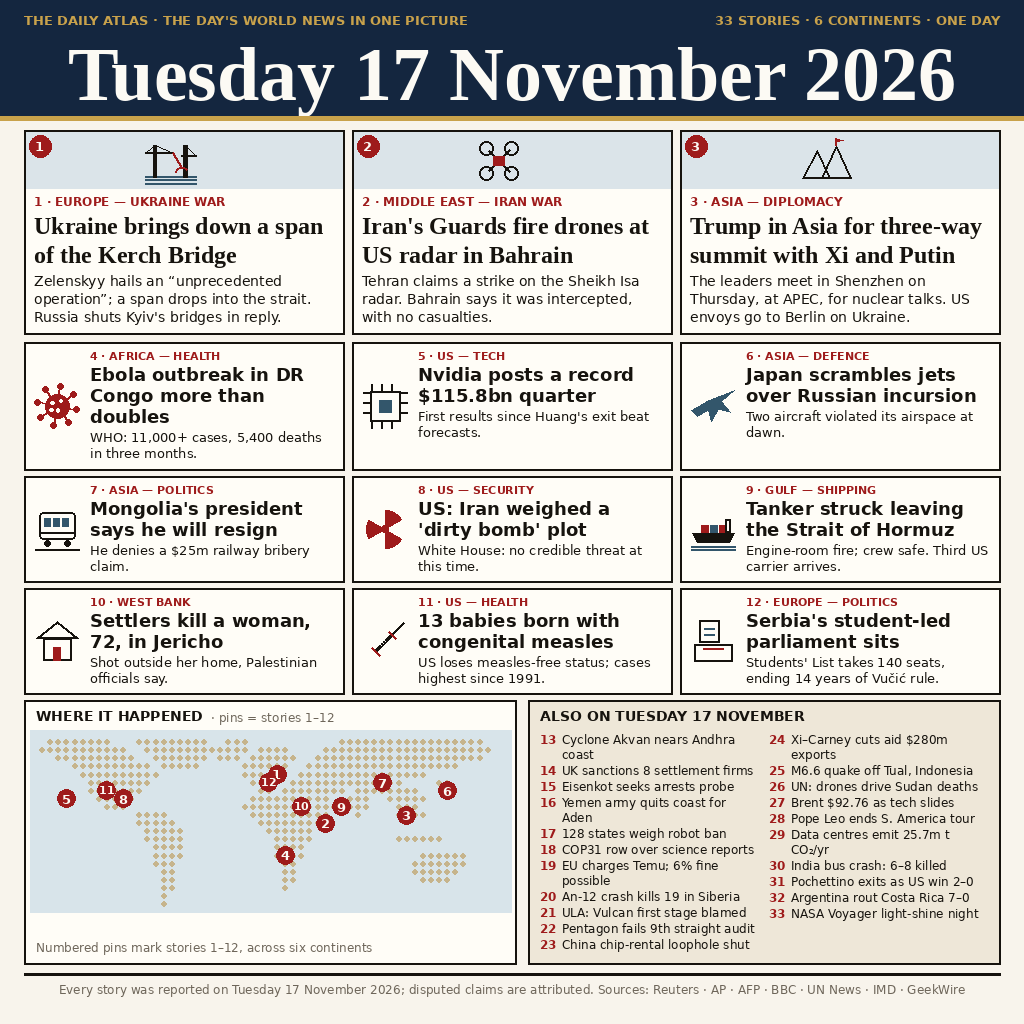
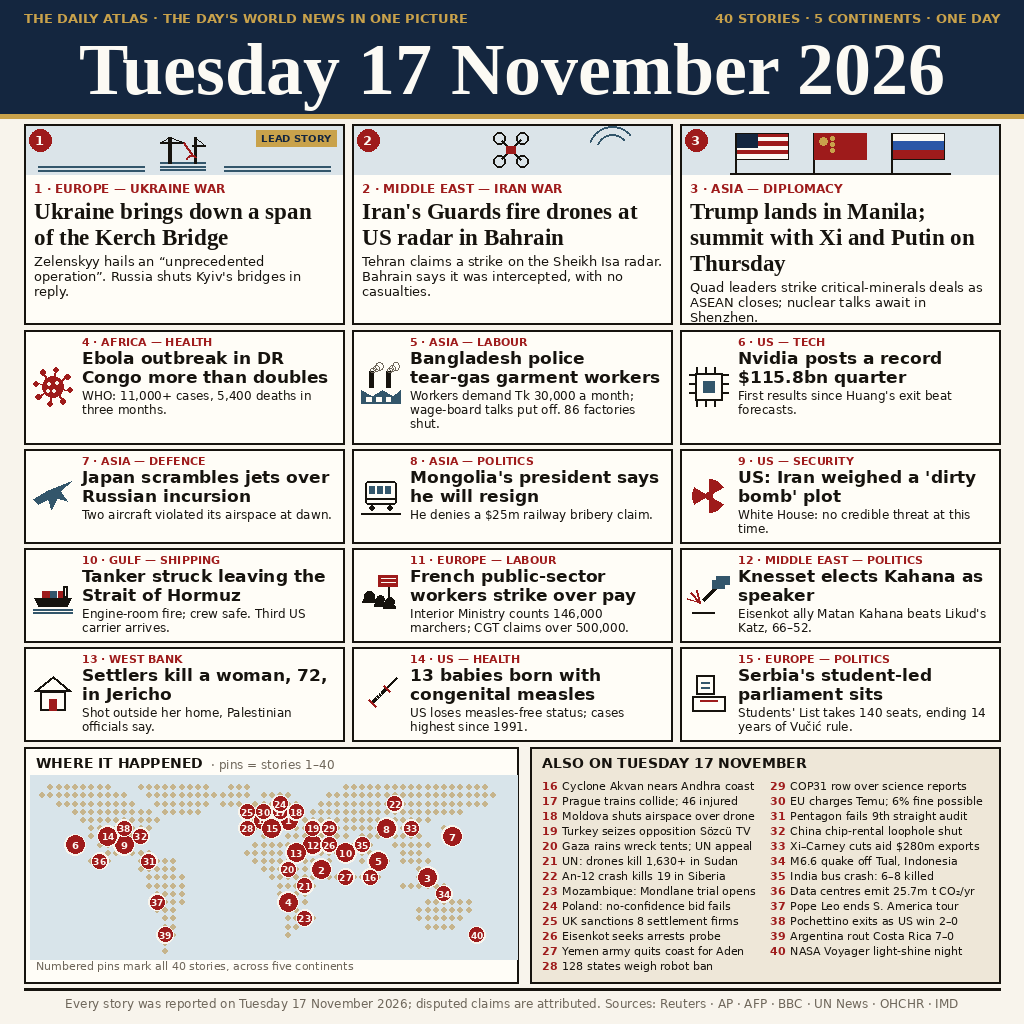
V2: 40 stories, 15 cards, pins for every story

diff --git a/main.py b/main.py
@@ -1,5 +1,5 @@
 #!/usr/bin/env python3
-"""news-image-20261117 entry program.
+"""news-image-20261117 entry program (V2).
 
 Copies the bundled front-page image (entry.png, next to this file) to
 $MAKEFUN_OUTPUT_DIR/entry.png, defaulting to /output/entry.png.

diff --git a/README.md b/README.md
@@ -1,13 +1,13 @@
-# The Daily Atlas — Tuesday 17 November 2026
+# The Daily Atlas — Tuesday 17 November 2026 (V2)
 
 [![make.fun · news-image-20261117](https://make.fun/badge/news-image-20261117.svg)](https://make.fun/bounty/news-image-20261117?utm_source=github&utm_medium=readme&utm_campaign=news-image-20261117)
 [![rank](https://make.fun/badge/news-image-20261117/zenganteng0987/news-image-20261117/rank.svg)](https://make.fun/bounty/news-image-20261117/leaderboard?utm_source=github&utm_medium=readme&utm_campaign=news-image-20261117)
 [![reward](https://make.fun/badge/news-image-20261117/zenganteng0987/news-image-20261117/reward.svg)](https://make.fun/bounty/news-image-20261117?utm_source=github&utm_medium=readme&utm_campaign=news-image-20261117)
 
-One image that sums up the world news of **Tuesday 17 November 2026**: 33 stories
-from six continents on a single front page — numbered, illustrated cards for the
-12 biggest stories, a dotted world map with pins matching the numbers, and an
-"Also on Tuesday" wire list for the rest. Every story happened or was first
+One image that sums up the world news of **Tuesday 17 November 2026**: 40 stories
+from five continents on a single front page — numbered, illustrated cards for the
+15 biggest stories, a dotted world map with numbered pins for all 40 stories, and
+an "Also on Tuesday" wire list for the rest. Every story happened or was first
 reported on that Tuesday; disputed claims are attributed in the captions.
 
 The image was drawn entirely by code (Python + Pillow): all text is rendered
